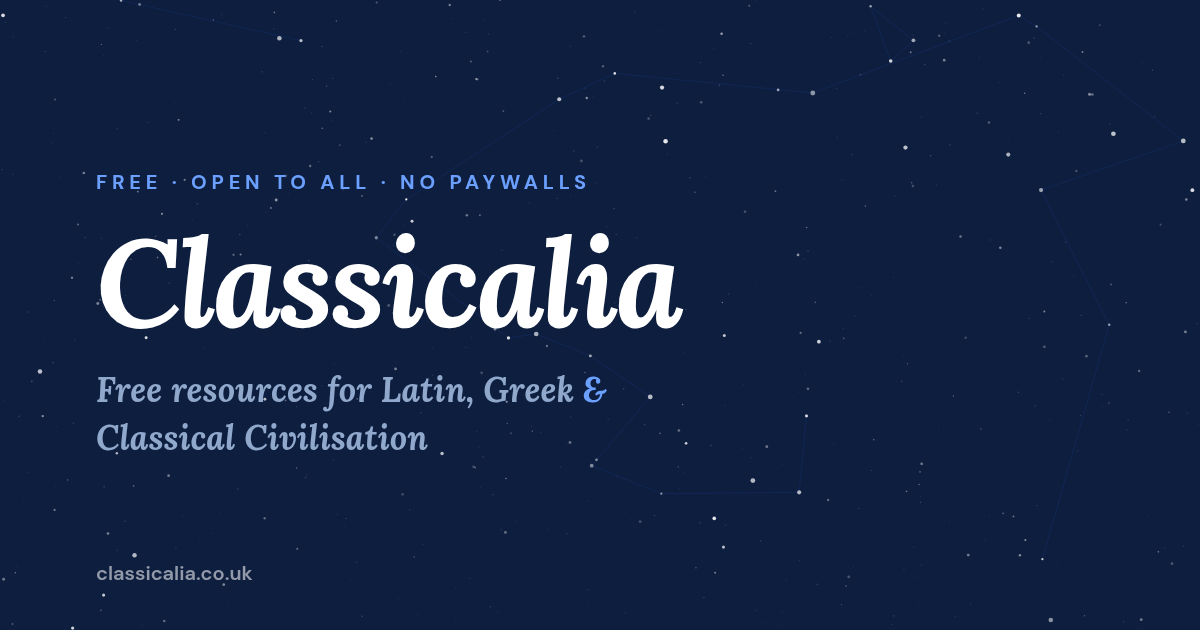
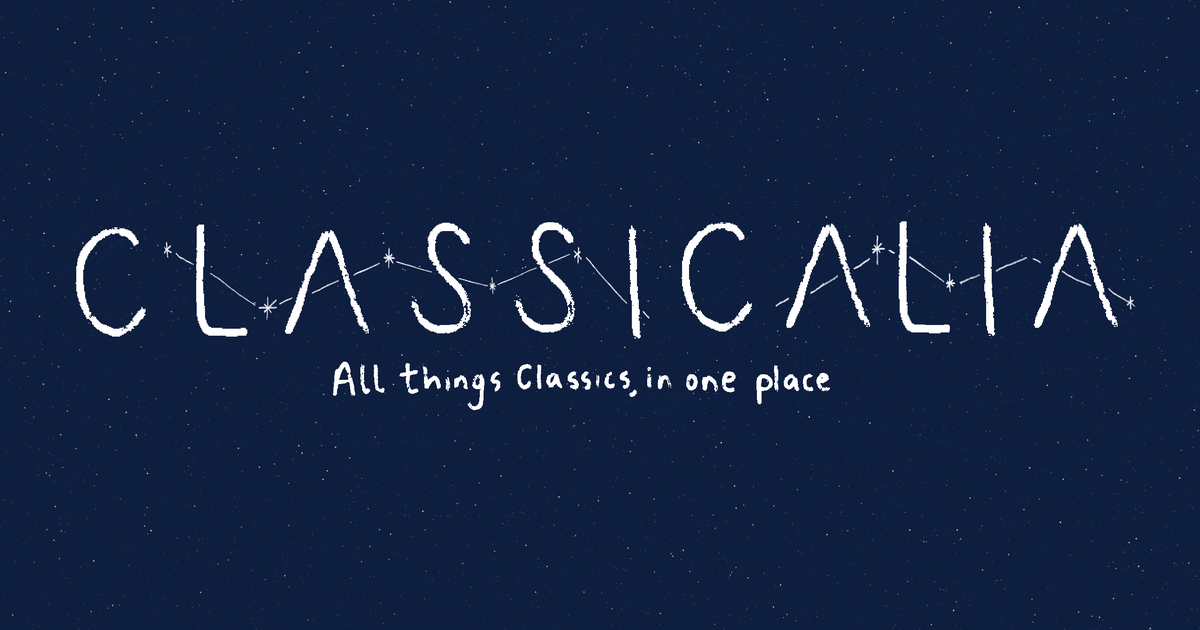
Wordmark branding for auth pages and social share image (#692)
Swaps the text logo for the drawn wordmark in the nav of the four
auth pages, and rebuilds og-classicalia.png (the link-preview card
for WhatsApp/Twitter/Teams) as a 1200x630 crop of the original
wordmark-and-tagline artwork.

Claude-Session: https://claude.ai/code/session_01HRLiotsxZWcPKpoRiLtQL6

diff --git a/auth/forgot-password.html b/auth/forgot-password.html
@@ -17,7 +17,7 @@
   <canvas class="header-sky" data-starfield data-seed="828" data-region="0.8"></canvas>
   <nav class="nav">
     <div class="nav-inner">
-      <a href="/version2/" class="nav-logo">Classicalia</a>
+      <a href="/version2/" class="nav-logo"><img src="/version2/assets/images/classicalia-wordmark.png" alt="Classicalia"></a>
       <div class="nav-links">
         <a href="/version2/subjects/latin/" class="nav-link">Latin</a>
         <a href="/version2/subjects/greek/" class="nav-link">Greek</a>

diff --git a/auth/login.html b/auth/login.html
@@ -17,7 +17,7 @@
   <canvas class="header-sky" data-starfield data-seed="616" data-region="0.8"></canvas>
   <nav class="nav">
     <div class="nav-inner">
-      <a href="/version2/" class="nav-logo">Classicalia</a>
+      <a href="/version2/" class="nav-logo"><img src="/version2/assets/images/classicalia-wordmark.png" alt="Classicalia"></a>
       <div class="nav-links">
         <a href="/version2/subjects/latin/" class="nav-link">Latin</a>
         <a href="/version2/subjects/greek/" class="nav-link">Greek</a>

diff --git a/auth/register.html b/auth/register.html
@@ -17,7 +17,7 @@
   <canvas class="header-sky" data-starfield data-seed="404" data-region="0.8"></canvas>
   <nav class="nav">
     <div class="nav-inner">
-      <a href="/version2/" class="nav-logo">Classicalia</a>
+      <a href="/version2/" class="nav-logo"><img src="/version2/assets/images/classicalia-wordmark.png" alt="Classicalia"></a>
       <div class="nav-links">
         <a href="/version2/subjects/latin/" class="nav-link">Latin</a>
         <a href="/version2/subjects/greek/" class="nav-link">Greek</a>

diff --git a/auth/reset-password.html b/auth/reset-password.html
@@ -17,7 +17,7 @@
   <canvas class="header-sky" data-starfield data-seed="999" data-region="0.8"></canvas>
   <nav class="nav">
     <div class="nav-inner">
-      <a href="/version2/" class="nav-logo">Classicalia</a>
+      <a href="/version2/" class="nav-logo"><img src="/version2/assets/images/classicalia-wordmark.png" alt="Classicalia"></a>
       <div class="nav-links">
         <a href="/version2/subjects/latin/" class="nav-link">Latin</a>
         <a href="/version2/subjects/greek/" class="nav-link">Greek</a>